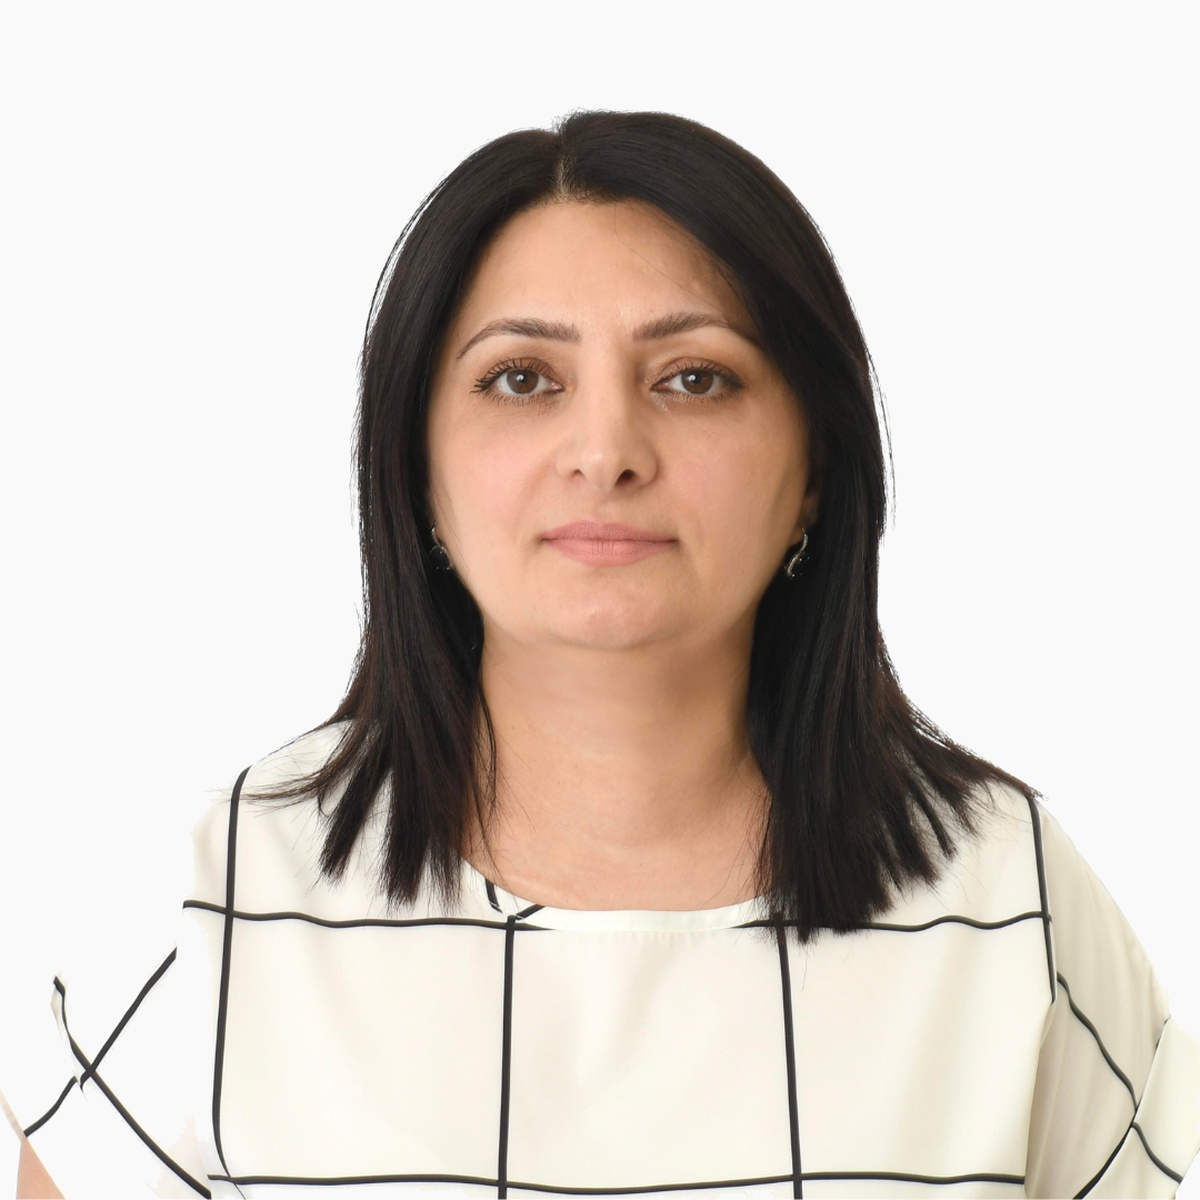
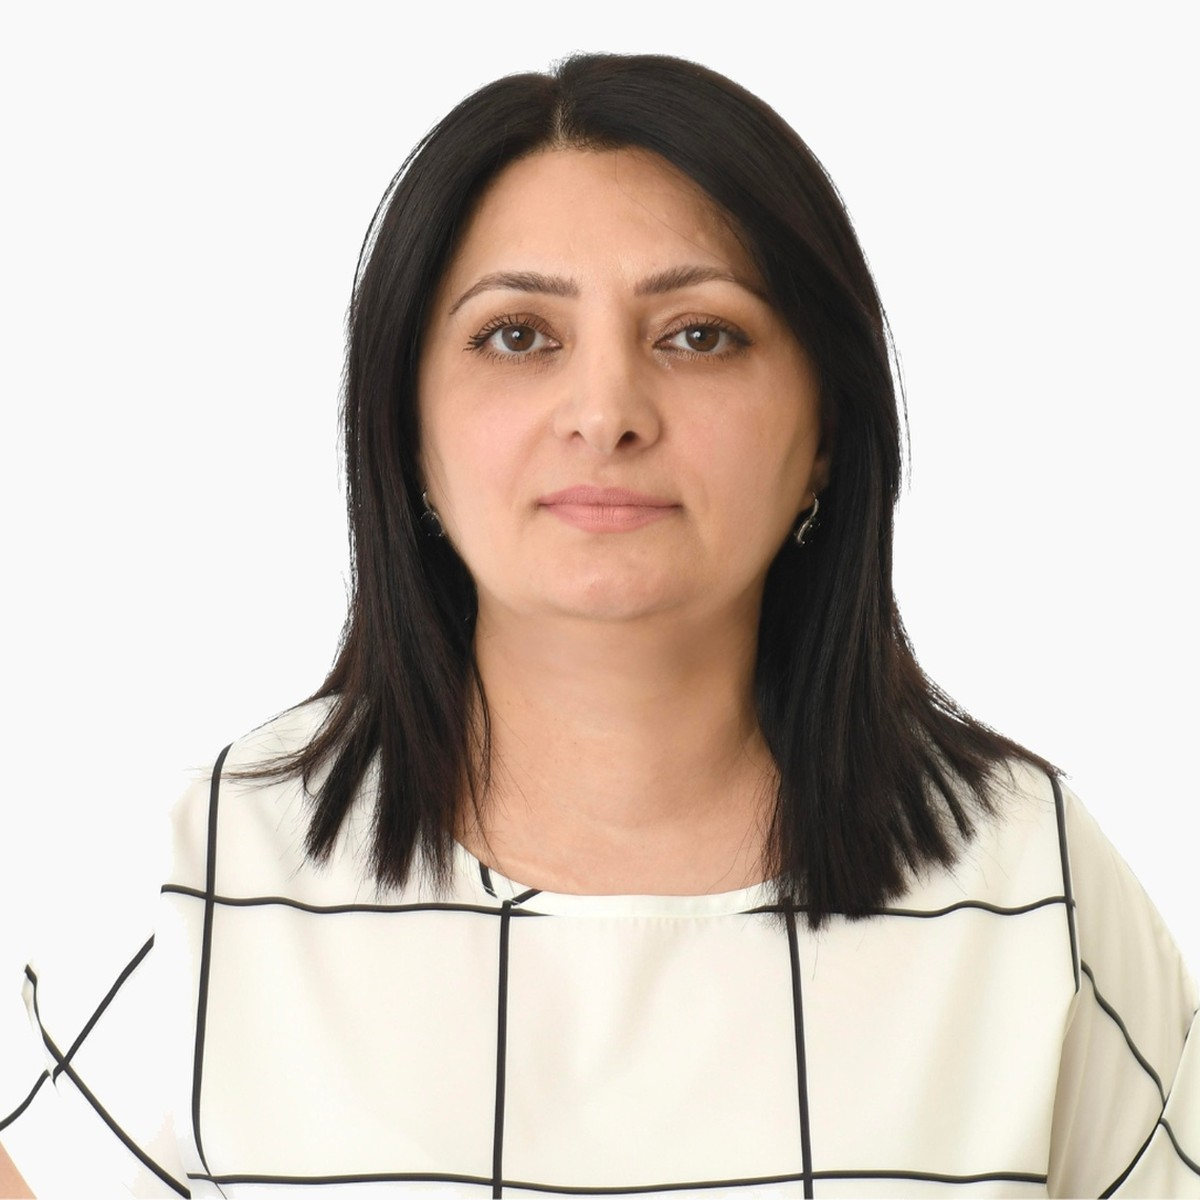
Lift Anush Elaryan in her photo to match other specialists
Claude-Session: https://claude.ai/code/session_01UY2yYSyHezMTLTrkPybDFD

diff --git a/team.html b/team.html
@@ -198,7 +198,7 @@
           <a class="more" href="adlea-specialist-bios.html#nina-minasyan">Learn more &#8594;</a>
         </div>
         <div class="team-card">
-          <div class="team-photo"><img src="assets/anush-elaryan.jpg" alt="Anush Elaryan"></div>
+          <div class="team-photo"><img src="assets/anush-elaryan.jpg?v=2" alt="Anush Elaryan"></div>
           <h3>Anush Elaryan</h3>
           <p class="role">Curriculum, Standards, and Assessment Specialist</p>
           <a class="more" href="adlea-specialist-bios.html#anush-elaryan">Learn more &#8594;</a>

diff --git a/adlea-specialist-bios.html b/adlea-specialist-bios.html
@@ -190,7 +190,7 @@
       </div>
 
       <div id="anush-elaryan" class="bio-section">
-        <div class="bio-photo"><img src="assets/anush-elaryan.jpg" alt="Anush Elaryan"></div>
+        <div class="bio-photo"><img src="assets/anush-elaryan.jpg?v=2" alt="Anush Elaryan"></div>
         <div class="bio-text">
           <span class="eyebrow">Specialist Team</span>
           <h2>Anush Elaryan</h2>
